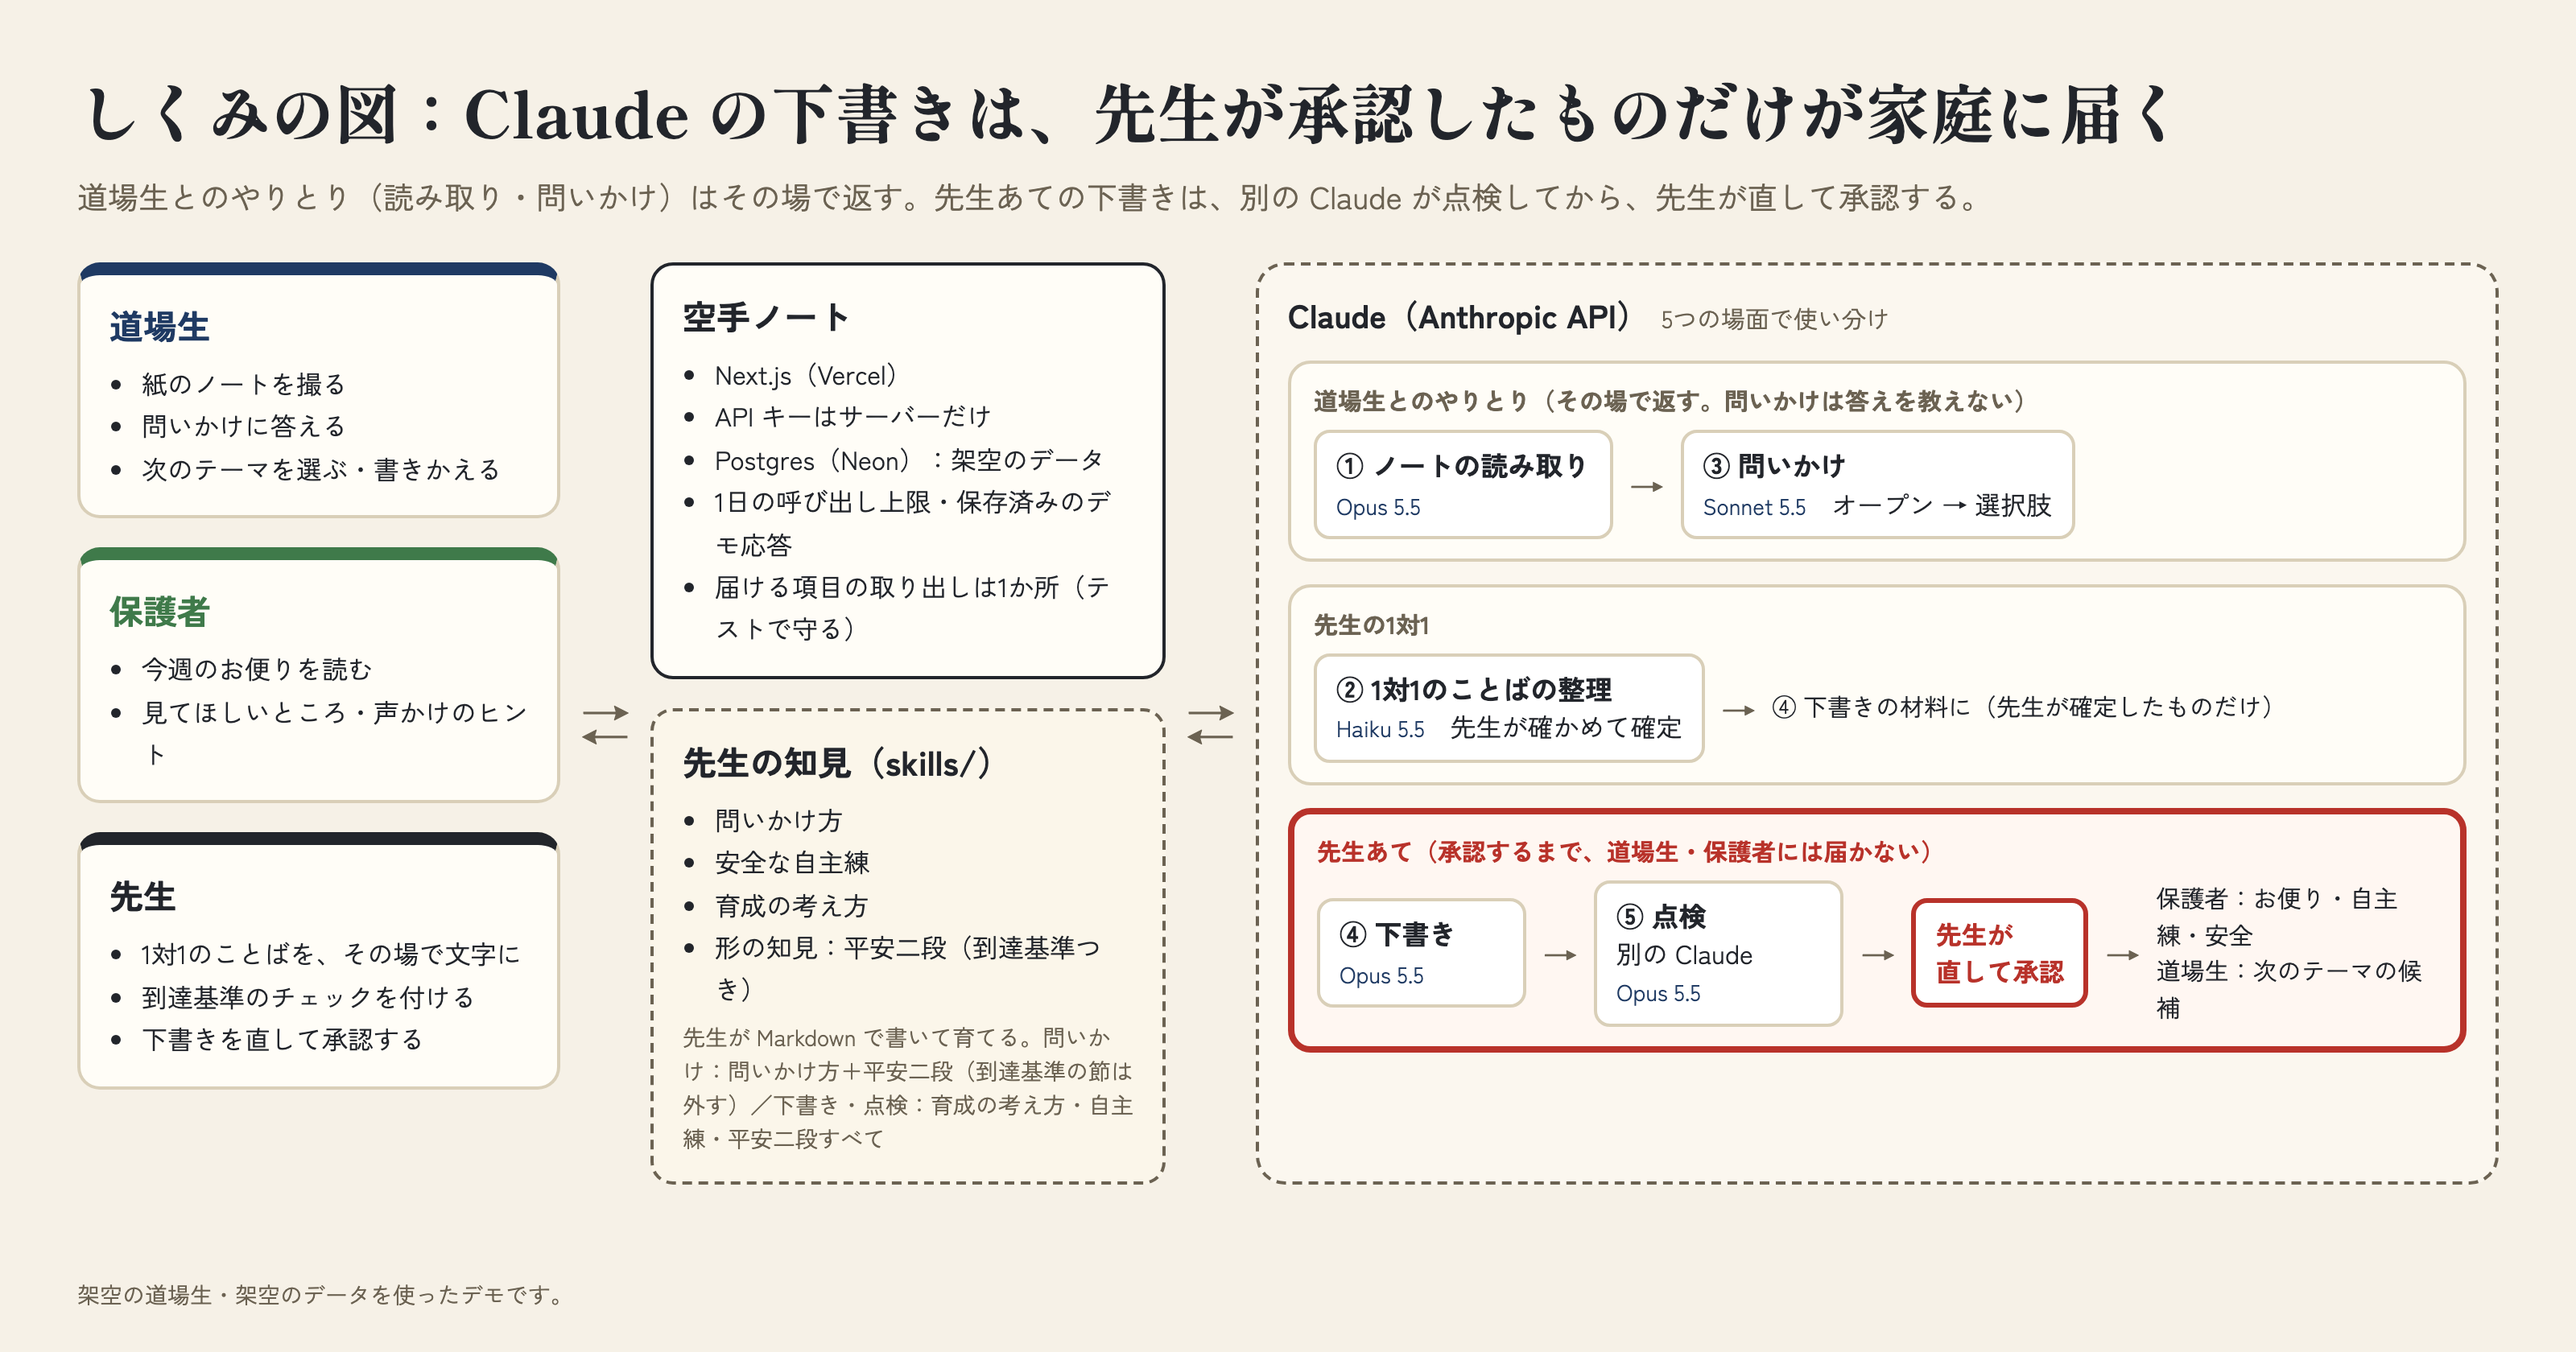
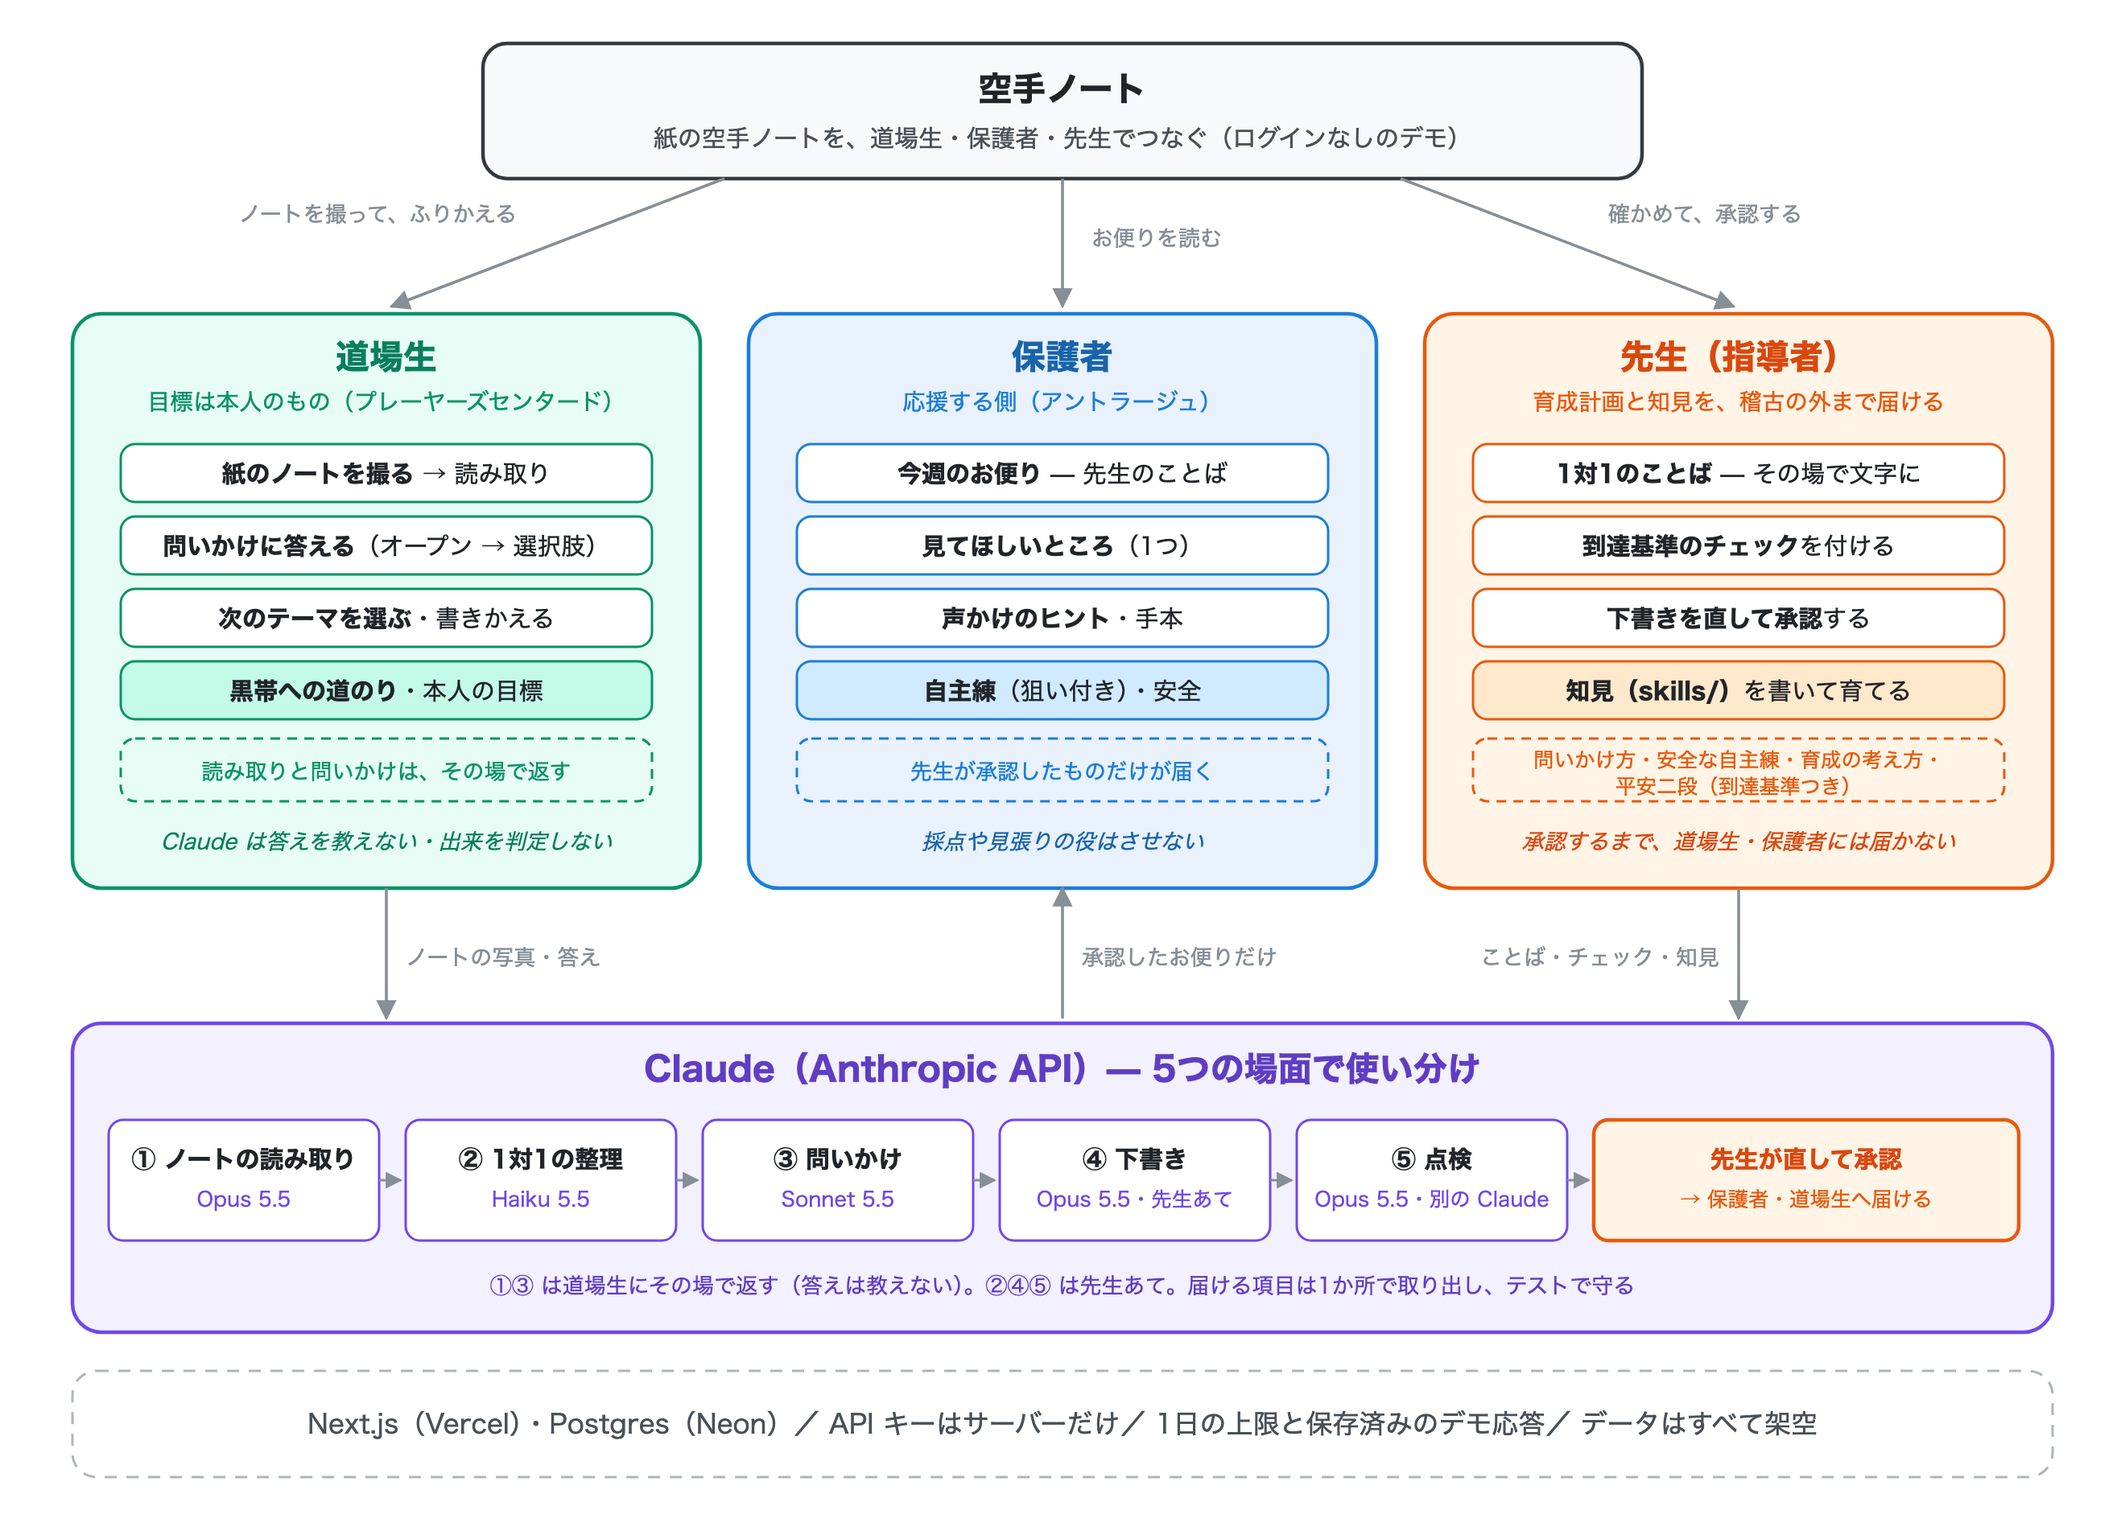
docs: しくみの図を作者のデザインにそろえて作り直す（SVG）

diff --git a/README.md b/README.md
@@ -40,7 +40,7 @@
 
 ![しくみの図：Claude の下書きは、先生が承認したものだけが家庭に届く](docs/architecture.png)
 
-道場生とのやりとり（ノートの読み取り・問いかけ）はその場で返し、答えは教えない。先生あての下書きは別の Claude が点検し、先生が直して承認したものだけが保護者と道場生に届く。図のもとは [docs/architecture.html](docs/architecture.html)。
+道場生とのやりとり（ノートの読み取り・問いかけ）はその場で返し、答えは教えない。先生あての下書きは別の Claude が点検し、先生が直して承認したものだけが保護者と道場生に届く。図のもとは [docs/architecture.svg](docs/architecture.svg)。
 
 ## なぜ作ったか
 
@@ -235,4 +235,4 @@ Next.js（App Router・TypeScript）、Tailwind CSS、Postgres（Neon）＋ Driz
 | [docs/metrics.md](docs/metrics.md) | 見積もりと実績、レビュー指摘の件数 |
 | [docs/devlog.md](docs/devlog.md) | 決めたこと・詰まったこと・次にやること |
 | [docs/capture-list.md](docs/capture-list.md) | 動画と README の素材の撮影リスト |
-| [docs/architecture.html](docs/architecture.html) | しくみの図（[画像](docs/architecture.png)） |
+| [docs/architecture.svg](docs/architecture.svg) | しくみの図（[画像](docs/architecture.png)） |
